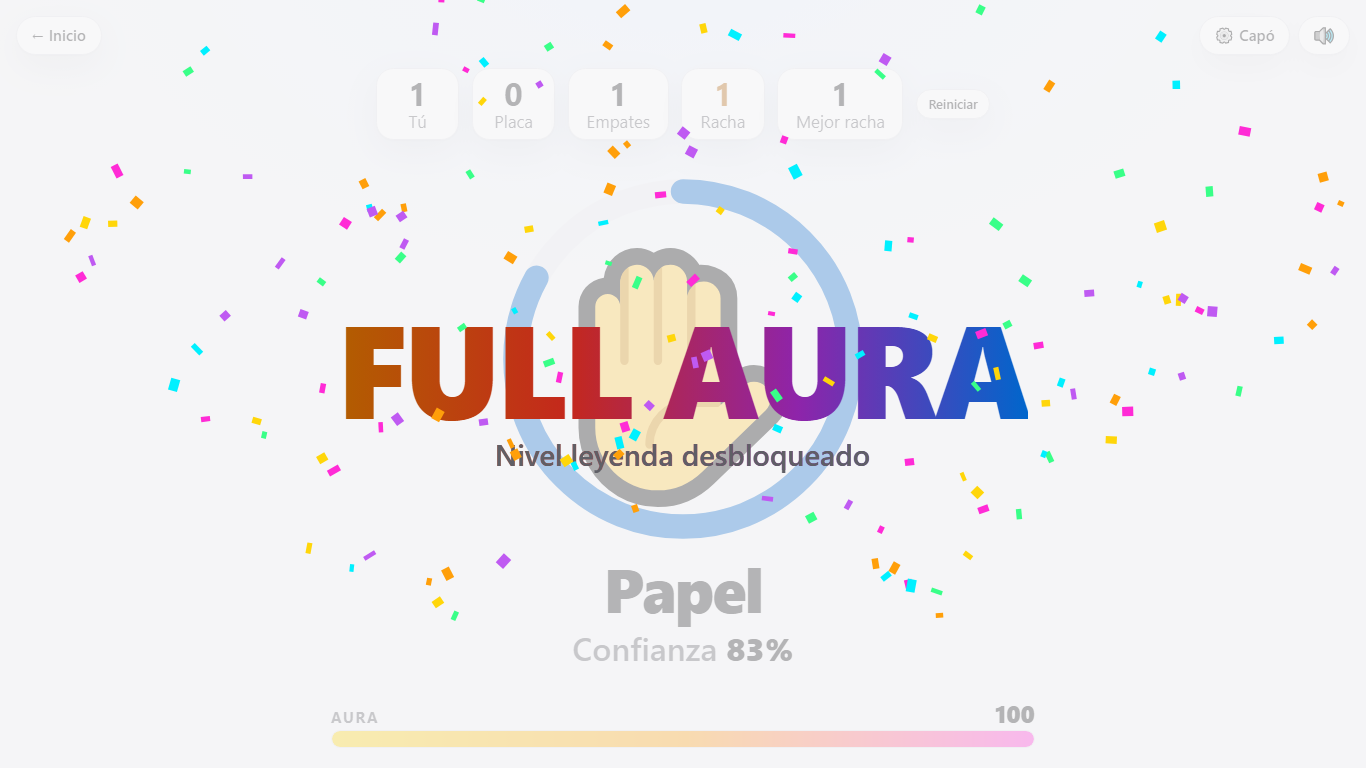
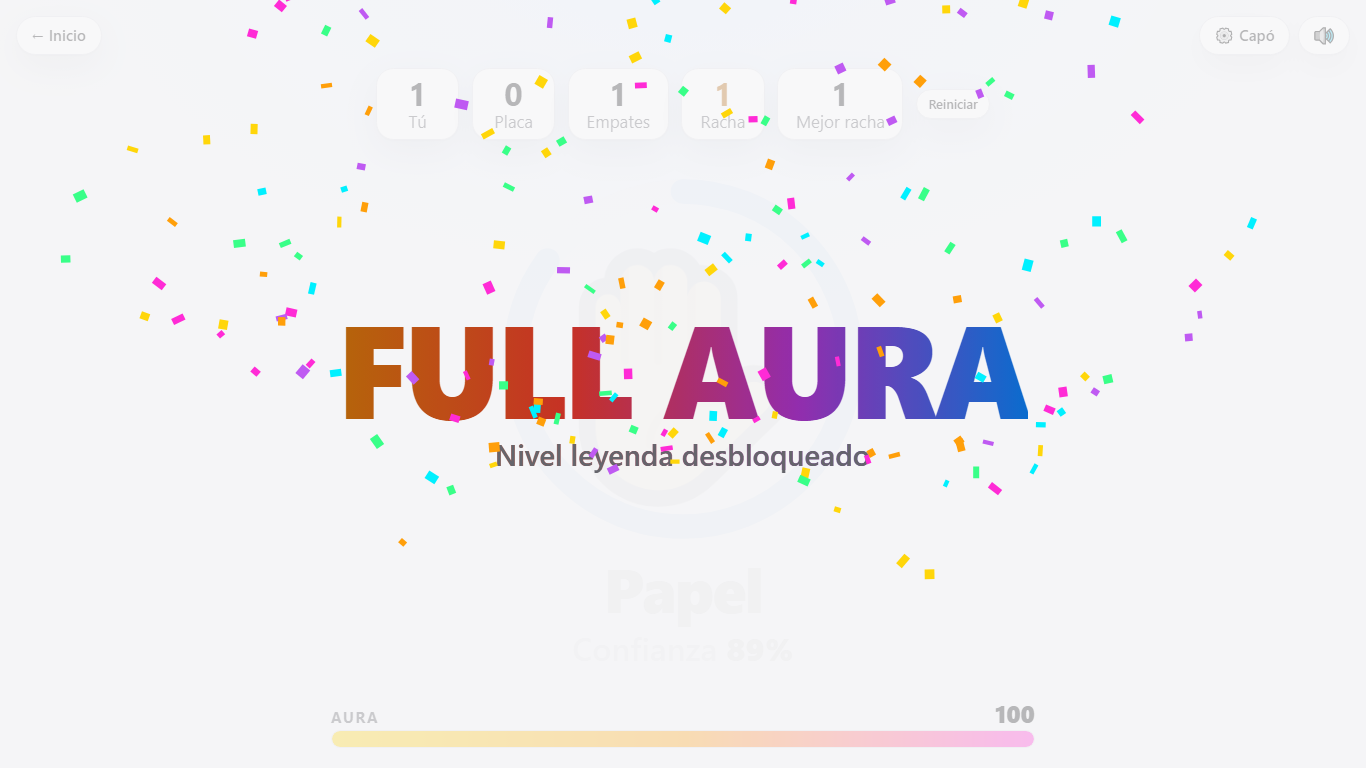
Dashboard: duelo con Tú y Placa rotulados y escena atenuada bajo los mensajes
Capturas y GIF regenerados (15 estados, 0 errores de consola).

diff --git a/dashboard/index.html b/dashboard/index.html
@@ -143,6 +143,12 @@ kbd{font:inherit;font-size:.85em;border:1px solid var(--line);border-bottom-widt
   background:transparent;transition:background .3s}
 #overlay.on{background:color-mix(in srgb,var(--bg) 70%,transparent)}
 body:has(#capo.abierto) #overlay.on{background:transparent}
+#escena{transition:opacity .25s}
+body:has(#overlay.on):not(:has(#capo.abierto)) #escena{opacity:.07}
+.duelo{display:flex;align-items:center;justify-content:center;gap:.25em}
+.duelo .lado{display:flex;flex-direction:column;align-items:center;line-height:1}
+.duelo .lado b{font-size:clamp(1.2rem,4.5vmin,3rem);font-weight:700;letter-spacing:0;color:var(--tx2);margin-top:.7em}
+.duelo .vs{font-size:.28em;font-weight:700;color:var(--tx2);letter-spacing:0}
 .msg.gana,.msg.pierde,.msg.empata{font-size:clamp(5rem,28vmin,20rem);letter-spacing:.08em;line-height:1.15}
 .msg{font-size:clamp(2.6rem,13vmin,10rem);font-weight:800;letter-spacing:-.03em;line-height:1.02;text-shadow:var(--glow);text-transform:var(--mayus);
   animation:msg .5s cubic-bezier(.3,1.5,.5,1) both}
@@ -459,7 +465,16 @@ RPS.mensaje=function(texto,o){
   o=o||{};
   var ov=$("overlay");clearTimeout(msgTimer);ov.textContent="";
   var d=document.createElement("div");d.className="msg"+(o.estilo?" "+o.estilo:"");
-  d.appendChild(document.createTextNode(texto));
+  if(o.duelo){
+    var du=document.createElement("span");du.className="duelo";
+    o.duelo.forEach(function(l,i){
+      if(i){var v=document.createElement("span");v.className="vs";v.textContent="vs";du.appendChild(v)}
+      var c=document.createElement("span");c.className="lado";
+      var e=document.createElement("span");e.textContent=l[0];var b=document.createElement("b");b.textContent=l[1];
+      c.appendChild(e);c.appendChild(b);du.appendChild(c);
+    });
+    d.appendChild(du);
+  }else d.appendChild(document.createTextNode(texto));
   if(o.sub){var s=document.createElement("small");s.textContent=o.sub;d.appendChild(s)}
   ov.appendChild(d);ov.classList.add("on");
   var ms=o.ms===undefined?1800:o.ms;if(rapido)ms=Math.max(ms*.4,400);
@@ -819,7 +834,7 @@ async function partida(uForzado,pForzada,confForzada){
     if(invActiva)S.konami--;
     guardar();pintar();
     res={usuario:u.clase,placa:p,resultado:r>0?"gana":r<0?"pierde":"empate"};
-    R.mensaje(R.emoji(u.clase)+"  "+R.emoji(p),{ms:rapido?700:2300,estilo:est,sub:"Tú vs Placa · "+txt+" "+aviso});
+    R.mensaje(R.emoji(u.clase)+"  "+R.emoji(p),{duelo:[[R.emoji(u.clase),"Tú"],[R.emoji(p),"Placa"]],ms:rapido?700:2300,estilo:est,sub:"Tú vs Placa · "+txt+" "+aviso});
     await espera(rapido?700:2400);
     if(invActiva&&S.konami===0){
       R.mensaje("Se acabó el hechizo",{ms:rapido?500:2200,sub:"La placa vuelve a ser mortal. Suerte, causa"});await espera(rapido?500:2300);
